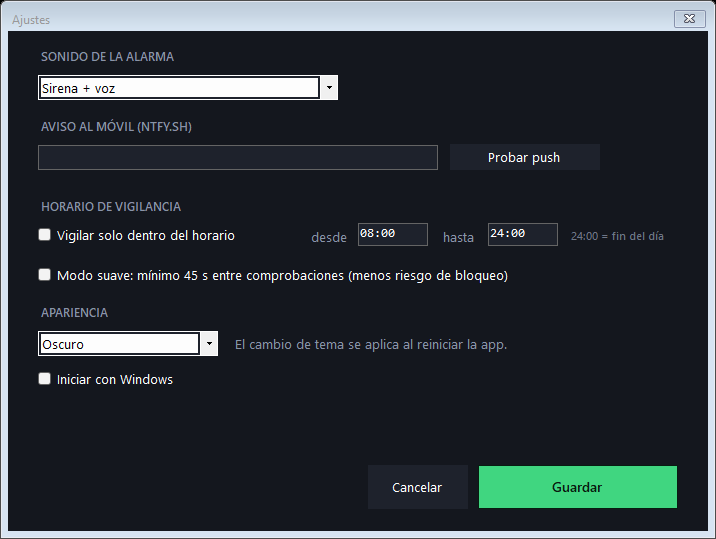
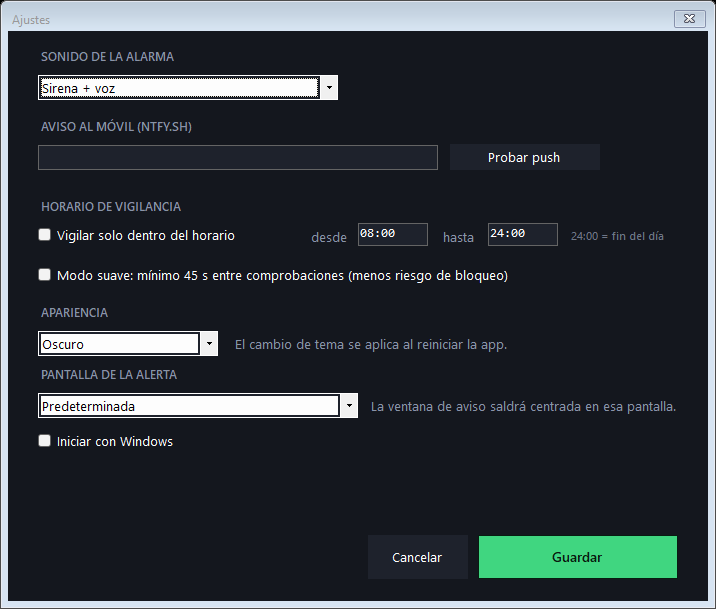
feat: elegir la pantalla donde aparece la alerta

diff --git a/SettingsDialog.cs b/SettingsDialog.cs
@@ -13,6 +13,7 @@ public sealed class SettingsDialog : Form
     private readonly TextBox _end;
     private readonly CheckBox _gentle;
     private readonly ComboBox _theme;
+    private readonly ComboBox _screen;
     private readonly CheckBox _startup;
 
     public string SoundMode => SoundValues[Math.Max(0, _sound.SelectedIndex)];
@@ -22,6 +23,7 @@ public sealed class SettingsDialog : Form
     public string ScheduleEnd => _end.Text.Trim();
     public bool GentleMode => _gentle.Checked;
     public string Theme => _theme.SelectedIndex == 1 ? "light" : "dark";
+    public int AlertScreen => _screen.SelectedIndex <= 0 ? -1 : _screen.SelectedIndex - 1;
     public bool ThemeChanged => !string.Equals(Theme, _originalTheme, StringComparison.OrdinalIgnoreCase);
     public bool StartWithWindows => _startup.Checked;
 
@@ -30,7 +32,7 @@ public sealed class SettingsDialog : Form
         _originalTheme = config.Theme;
 
         Text = "Ajustes";
-        ClientSize = new Size(700, 500);
+        ClientSize = new Size(700, 570);
         StartPosition = FormStartPosition.CenterParent;
         FormBorderStyle = FormBorderStyle.FixedDialog;
         MaximizeBox = false;
@@ -171,6 +173,41 @@ public sealed class SettingsDialog : Form
             Location = new Point(224, y + 4)
         });
 
+        y += 36;
+
+        Controls.Add(Header("Pantalla de la alerta", ref y));
+
+        _screen = new ComboBox
+        {
+            Location = new Point(30, y),
+            Width = 320,
+            DropDownStyle = ComboBoxStyle.DropDownList,
+            BackColor = Color.FromArgb(30, 34, 44),
+            ForeColor = Color.White,
+            FlatStyle = FlatStyle.Flat
+        };
+        _screen.Items.Add("Predeterminada");
+
+        var screens = Screen.AllScreens;
+        for (var i = 0; i < screens.Length; i++)
+        {
+            var s = screens[i];
+            _screen.Items.Add($"Pantalla {i + 1} ({s.Bounds.Width}×{s.Bounds.Height})");
+        }
+
+        _screen.SelectedIndex = config.AlertScreen >= 0 && config.AlertScreen < screens.Length
+            ? config.AlertScreen + 1
+            : 0;
+
+        Controls.Add(_screen);
+        Controls.Add(new Label
+        {
+            Text = "La ventana de aviso saldrá centrada en esa pantalla.",
+            AutoSize = true,
+            ForeColor = Color.FromArgb(138, 147, 168),
+            Location = new Point(360, y + 4)
+        });
+
         _startup = new CheckBox
         {
             Text = "Iniciar con Windows",
@@ -184,7 +221,7 @@ public sealed class SettingsDialog : Form
         var ok = new Button
         {
             Text = "Guardar",
-            Location = new Point(470, 434),
+            Location = new Point(470, 504),
             Size = new Size(200, 44),
             BackColor = Color.FromArgb(64, 214, 128),
             ForeColor = Color.FromArgb(8, 28, 17),
@@ -198,7 +235,7 @@ public sealed class SettingsDialog : Form
         var cancel = new Button
         {
             Text = "Cancelar",
-            Location = new Point(360, 434),
+            Location = new Point(360, 504),
             Size = new Size(100, 44),
             BackColor = Color.FromArgb(30, 34, 44),
             ForeColor = Color.White,

diff --git a/MainForm.cs b/MainForm.cs
@@ -458,6 +458,7 @@ public sealed class MainForm : Form
         _config.ScheduleEnd = dialog.ScheduleEnd;
         _config.GentleMode = dialog.GentleMode;
         _config.Theme = dialog.Theme;
+        _config.AlertScreen = dialog.AlertScreen;
         _config.Save(AppPaths.DataDir);
 
         _alarm.Mode = _config.SoundMode;
@@ -1585,7 +1586,11 @@ public sealed class MainForm : Form
             }
 
             _alertForm.AddItem(item);
-            if (!_alertForm.Visible) _alertForm.Show();
+            if (!_alertForm.Visible)
+            {
+                PositionAlert(_alertForm);
+                _alertForm.Show();
+            }
             if (_alertForm.WindowState == FormWindowState.Minimized)
                 _alertForm.WindowState = FormWindowState.Normal;
             _alertForm.Activate();
@@ -1594,6 +1599,20 @@ public sealed class MainForm : Form
 
         if (InvokeRequired) BeginInvoke(new Action(Ui));
         else Ui();
+    }
+
+    private void PositionAlert(Form form)
+    {
+        var screens = Screen.AllScreens;
+        var index = _config.AlertScreen;
+        var screen = index >= 0 && index < screens.Length ? screens[index] : Screen.PrimaryScreen;
+        if (screen is null) return;
+
+        var area = screen.WorkingArea;
+        form.StartPosition = FormStartPosition.Manual;
+        form.Location = new Point(
+            area.Left + Math.Max(0, (area.Width - form.Width) / 2),
+            area.Top + Math.Max(0, (area.Height - form.Height) / 2));
     }
 
     private void OnAlertConfirmed(object? sender, EventArgs e)

diff --git a/Config.cs b/Config.cs
@@ -16,6 +16,7 @@ public sealed class AppConfig
     public string ScheduleStart { get; set; } = "08:00";
     public string ScheduleEnd { get; set; } = "24:00";
     public string Theme { get; set; } = "dark";
+    public int AlertScreen { get; set; } = -1;
     public List<ItemConfig> Items { get; set; } = new();
 
     private static readonly JsonSerializerOptions WriteOpts = new()

diff --git a/README.md b/README.md
@@ -56,7 +56,7 @@ Portable: `config.json`, `logs/` and the internal browser profile are stored **n
 - **Backoff** on failures (30→60→120→180 s) and a **watchdog** that restarts Edge if it dies.
 - **Only-alarm popup** with a big OK button; the siren keeps playing until you press it.
 - **Snooze 30 min** (the same button cancels it), **pause per product**, and “already bought → pause this product”.
-- **Settings**: sound mode (siren+voice / siren / voice / beep), ntfy push with a test button, schedule (e.g. 08:00–24:00), gentle mode (min 45 s), **start with Windows** and dark/light theme.
+- **Settings**: sound mode (siren+voice / siren / voice / beep), ntfy push with a test button, schedule (e.g. 08:00–24:00), gentle mode (min 45 s), **start with Windows**, **alert screen** and dark/light theme.
 - Prevents Windows from sleeping while watching.
 - Optional **update notice** (not forced) when a newer GitHub Release exists.
 - Live log with a **clear** button (does not delete files) and daily log files; `logs\historial.csv` with every stock change.
@@ -95,6 +95,7 @@ Small windows are supported: buttons wrap and rows are never clipped.
   "scheduleStart": "08:00",
   "scheduleEnd": "24:00",
   "theme": "dark",
+  "alertScreen": -1,
   "items": [
     {
       "name": "Jeans barrel",
@@ -107,7 +108,7 @@ Small windows are supported: buttons wrap and rows are never clipped.
 
 - `intervalSeconds`: 15–120 (or 5–120 if you unlock the lock).
 - `soundMode`: `both`, `siren`, `voice`, `beep`.
-- `theme`: `dark` or `light` (applies on restart).
+- `theme`: `dark` or `light` (applies on restart).\n- `alertScreen`: `-1` = default screen, `0` = first monitor, `1` = second monitor…
 - `ntfyTopic`: if set, sends a push to ntfy.sh on stock.
 
 ## How detection works
@@ -205,7 +206,7 @@ Portable: `config.json`, `logs/` y el perfil interno del navegador se guardan **
 - **Backoff** ante fallos (30→60→120→180 s) y **watchdog** que reinicia Edge si se cae.
 - **Ventana de aviso** con botón grande; la sirena no para hasta que lo pulsas.
 - **Snooze 30 min** (el mismo botón lo cancela), **pausar por producto** y “ya he comprado → pausar este producto”.
-- **Ajustes**: modo de sonido (sirena+voz / sirena / voz / pitido), ntfy con botón de prueba, horario (p. ej. 08:00–24:00), modo suave (mín. 45 s), **inicio con Windows** y tema oscuro/claro.
+- **Ajustes**: modo de sonido (sirena+voz / sirena / voz / pitido), ntfy con botón de prueba, horario (p. ej. 08:00–24:00), modo suave (mín. 45 s), **inicio con Windows**, **pantalla de la alerta** y tema oscuro/claro.
 - Impide que Windows entre en suspensión mientras vigila.
 - **Aviso de actualización** opcional (no obligatorio) si hay un Release nuevo.
 - Registro en vivo con botón **limpiar** (no borra archivos), logs diarios y `logs\historial.csv` con cada cambio de stock.
@@ -244,6 +245,7 @@ La ventana se adapta a tamaños pequeños: los botones se envuelven y las filas 
   "scheduleStart": "08:00",
   "scheduleEnd": "24:00",
   "theme": "dark",
+  "alertScreen": -1,
   "items": [
     {
       "name": "Jeans barrel",
@@ -256,7 +258,7 @@ La ventana se adapta a tamaños pequeños: los botones se envuelven y las filas 
 
 - `intervalSeconds`: 15–120 (o 5–120 si desbloqueas el candado).
 - `soundMode`: `both`, `siren`, `voice`, `beep`.
-- `theme`: `dark` o `light` (se aplica al reiniciar).
+- `theme`: `dark` o `light` (se aplica al reiniciar).\n- `alertScreen`: `-1` = pantalla predeterminada, `0` = primera pantalla, `1` = segunda…
 - `ntfyTopic`: si lo rellenas, envía un push a ntfy.sh al detectar stock.
 
 ## Cómo detecta el stock
